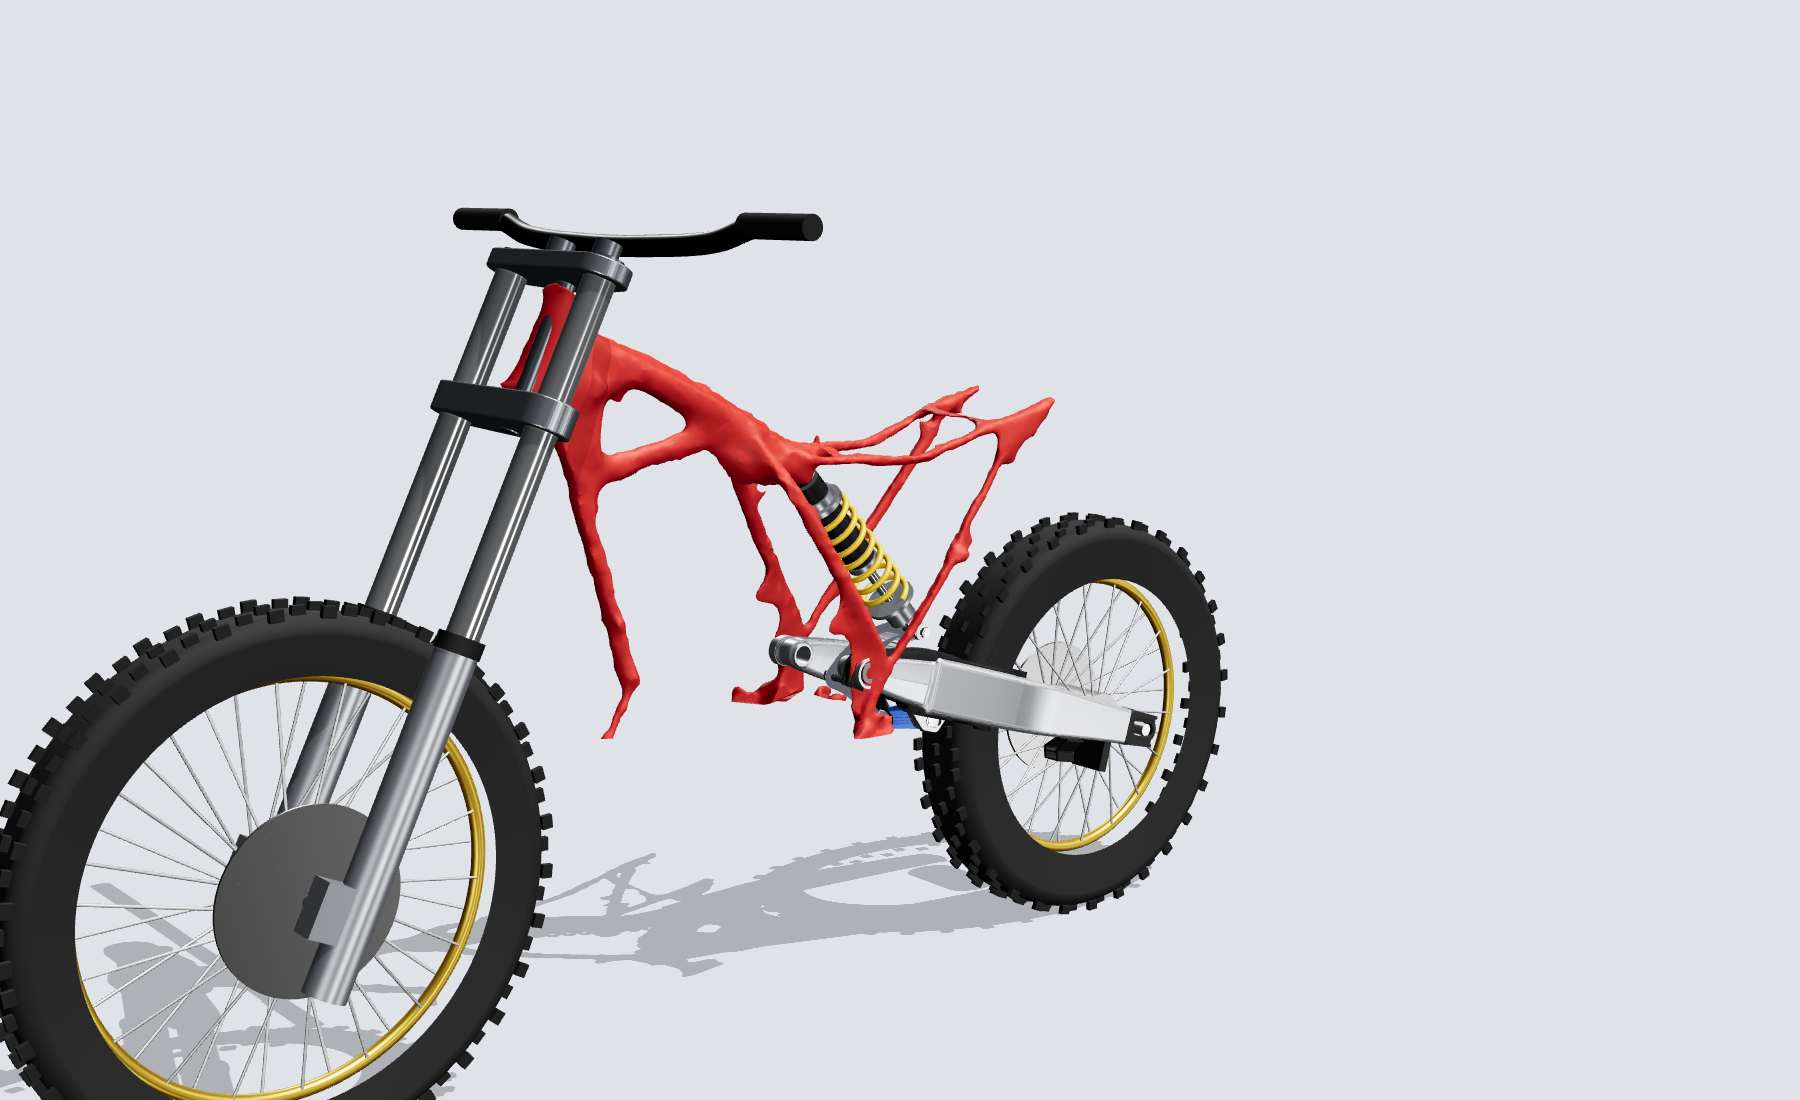
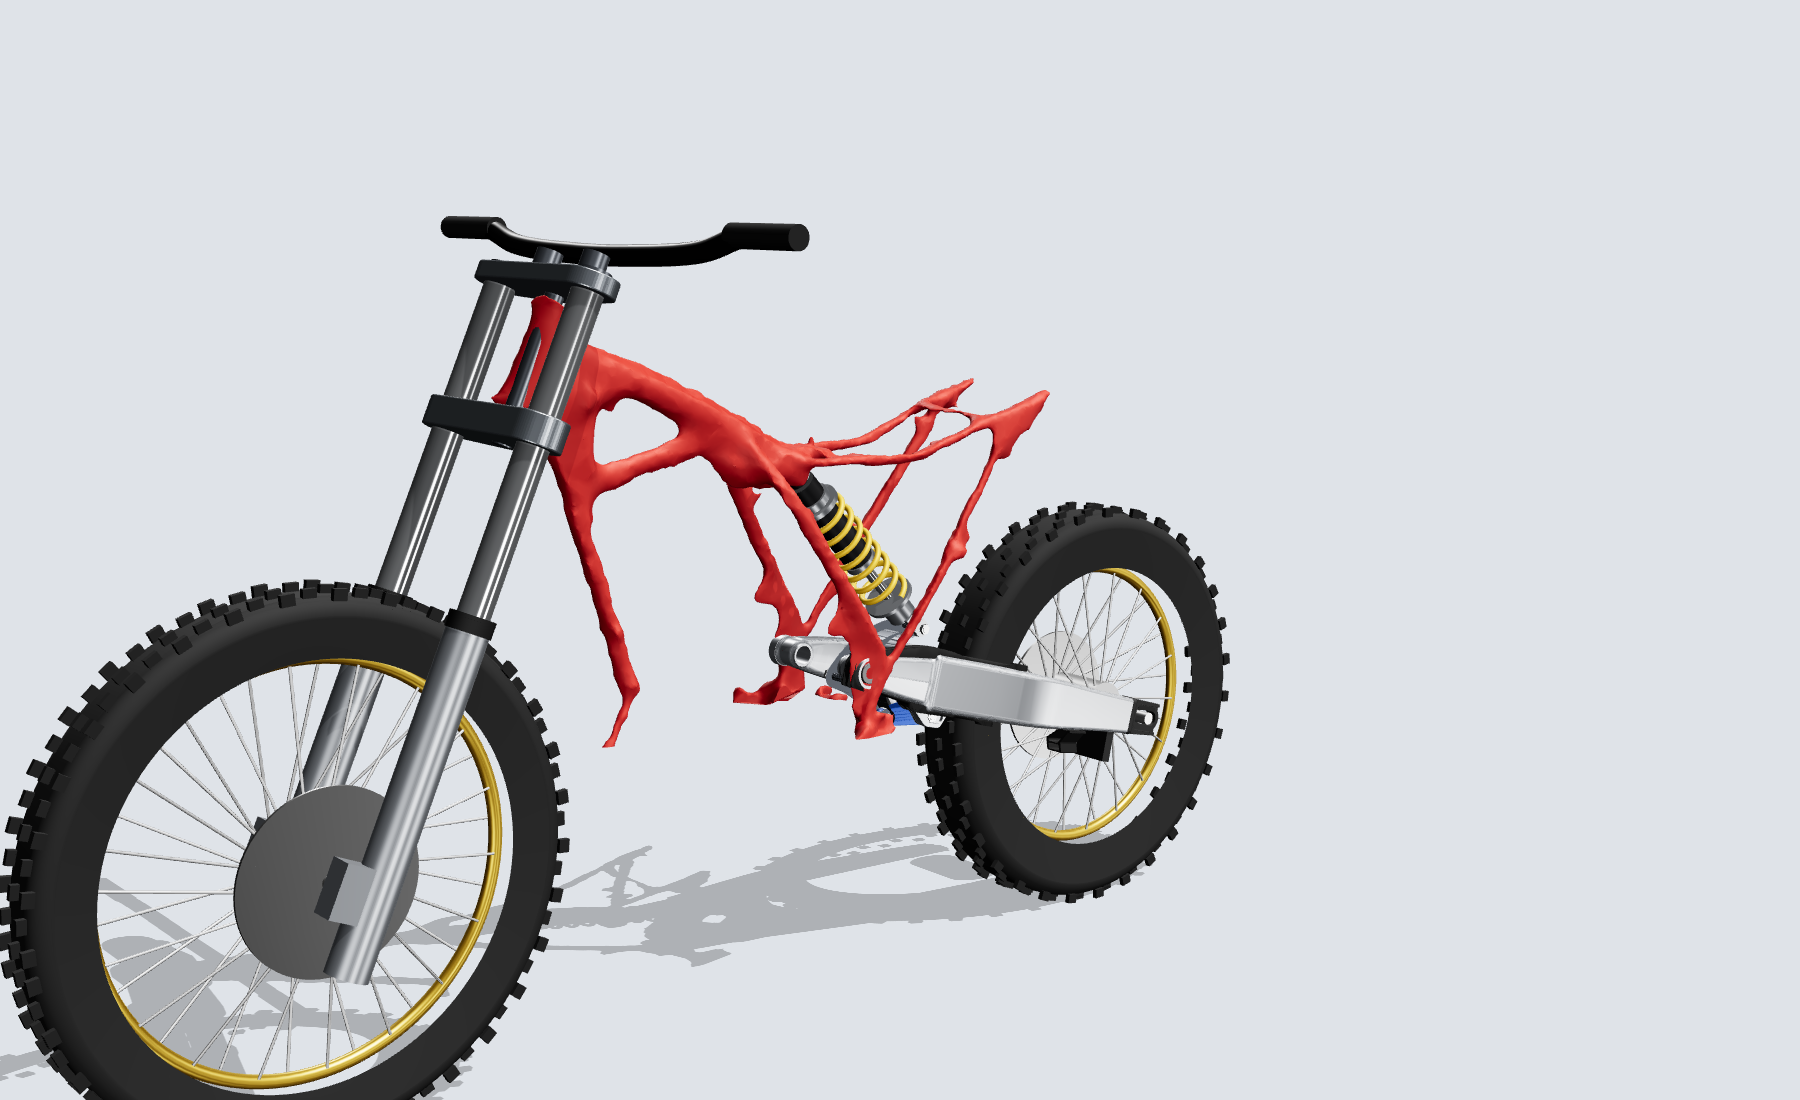
Render: 50 mm fork spacer, fix head angle readout sign
Claude-Session: https://claude.ai/code/session_01EhMcsCxbaz5LuQ9ftYg4nN

Changed region(s): [[0.0, 0.1855, 0.6844, 1.0], [0.4044, 0.6182, 0.4356, 0.6491]]

diff --git a/files/rear-render/page.html b/files/rear-render/page.html
@@ -12,7 +12,7 @@ function front(opt){
   const u=[Math.sin(ang),-Math.cos(ang)], f=[Math.cos(ang),Math.sin(ang)];
   const top=[455-25*f[0],575-25*f[1]];       // head tube top centre, 25 mm behind the front edge
   const HEAD=145, yokeOff=20, axleFwd=40, halfSpan=105;  // Joel 31 Oct: yokes 20 mm offset, axle 40 mm ahead of the tube centreline
-  const fork=935, sag=opt.fsag??75, slide=0;  // Joel: 935 top of fork to axle, fully extended (no spacer shown)
+  const spacer=opt.spacer??50, fork=935-spacer, sag=opt.fsag??75, slide=0;  // Joel: 935 top of fork to axle fully extended; 50 mm internal spacer (31 Oct)
   const topYokeZ=15, botYokeZ=-(HEAD+10+36);   // local Z up the axis from the head tube top
   const tubeTopZ=topYokeZ+20+slide, len=fork-sag, axleZ=tubeTopZ-len, sliderTopZ=axleZ+360;
   const t=-axleZ, fw=yokeOff+axleFwd; const ax=[top[0]+t*u[0]+fw*f[0], top[1]+t*u[1]+fw*f[1]];
@@ -128,7 +128,7 @@ window.renderView=async function(opt){
   root.rotation.y=-pitch; const rr=[P.axle[0]*Math.cos(pitch)-P.axle[1]*Math.sin(pitch), P.axle[0]*Math.sin(pitch)+P.axle[1]*Math.cos(pitch)];
   {const c=Math.cos(pitch),s=Math.sin(pitch); const R2=q=>[q[0]*c-q[1]*s,q[0]*s+q[1]*c]; const fa=R2(FA.axle), ra=R2(P.axle), ht=R2(FA.top), uu=R2(FA.u);
    const gzz=ra[1]-RR; const tt=(gzz-ht[1])/uu[1]; const hitX=ht[0]+tt*uu[0]; console.log('wheelbase',(fa[0]-ra[0]).toFixed(0),'trail',(hitX-fa[0]).toFixed(0),'pivot height',(-gzz).toFixed(0));}
-  console.log('pitch deg',(pitch*180/Math.PI).toFixed(2),'head angle deg',(Math.atan2(FA.u[0],-FA.u[1])*180/Math.PI - pitch*180/Math.PI).toFixed(1));
+  console.log('pitch deg',(pitch*180/Math.PI).toFixed(2),'head angle deg',(Math.atan2(FA.u[0],-FA.u[1])*180/Math.PI + pitch*180/Math.PI).toFixed(1));
   const gz=(opt.groundZ!==undefined)?opt.groundZ:rr[1]-RR-3;
   const gr=new THREE.Mesh(new THREE.PlaneGeometry(10000,10000),new THREE.ShadowMaterial({opacity:.22})); gr.position.z=gz; gr.receiveShadow=true; sc.add(gr);
   r.render(sc,cam); const u=r.domElement.toDataURL('image/png'); r.dispose(); return u;

diff --git a/files/rear-render/README.md b/files/rear-render/README.md
@@ -15,7 +15,7 @@ Joel's CRF250R arm (from his STEP model), his v2 windowed rocker (traced from hi
 - [Three-quarter front](https://raw.githubusercontent.com/Blevo66/chassis-bench/claude/project-thread-bk4fwa/files/rear-render/render-bike-hero.png)
 - [Three-quarter rear](https://raw.githubusercontent.com/Blevo66/chassis-bench/claude/project-thread-bk4fwa/files/rear-render/render-bike-rear.png)
 
-Front end from Joel's numbers: CR yokes 20 mm offset, axle 40 mm ahead of the tube centreline (60 mm total), legs 100 mm below the axle, 935 mm from the top of the fork to the axle (full length, no spacer), tube tops flush with the top yoke, 75 mm front sag. The head tube angle comes off the frame scan. The bike is pitched so both tyres touch the ground (front 346 mm radius, rear 323) with 95 mm of rear sag. That gives about 27.5 deg head angle, 105 mm trail and a 1412 mm wheelbase, all as good as the scan. Tube spacing (210 mm), the yoke shapes and the bars are stand-ins.
+Front end from Joel's numbers: CR yokes 20 mm offset, axle 40 mm ahead of the tube centreline (60 mm total), legs 100 mm below the axle, 935 mm from the top of the fork to the axle fully extended, with a 50 mm internal spacer (885 mm extended), tube tops flush with the top yoke, 75 mm front sag. The head tube angle comes off the frame scan. The bike is pitched so both tyres touch the ground (front 346 mm radius, rear 323) with 95 mm of rear sag. That gives about 24.6 deg head angle, 92 mm trail and a 1391 mm wheelbase (without the spacer: 26.4 deg, 105 mm, 1412 mm), all as good as the scan. Tube spacing (210 mm), the yoke shapes and the bars are stand-ins.
 
 Notes: the linkage is solved with the arm model's own lug hole, which is 209 mm along and 56 mm below the arm line. Joel's tape on his arm said 200 / 50. With the model's lug the arm tops out at 28.4 deg down (not ~24), with 252 mm vertical wheel travel and about 30% rising rate. Shock details (clevis, seat at ~72 mm, ~78 mm OD spring) are estimates.
 
